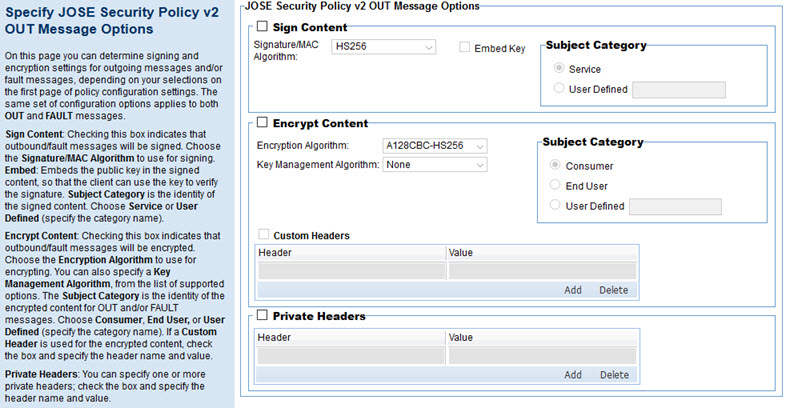
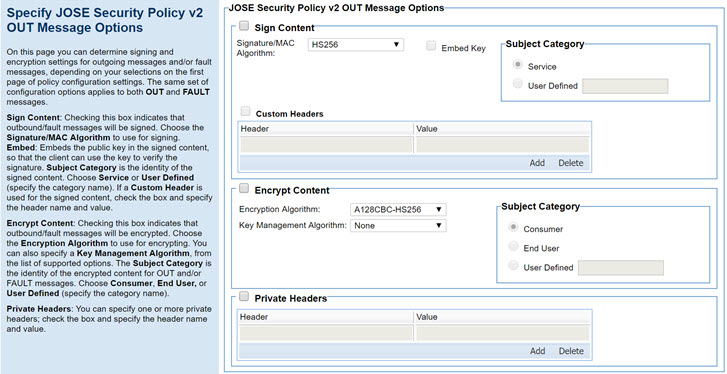
ATMO-24276: updates to JOSE Policy v2 doc for recent additional changes.

diff --git a/ag/policies/policy_op_jose_security_v2.htm b/ag/policies/policy_op_jose_security_v2.htm
@@ -140,7 +140,7 @@ nav-title: JOSE Security Policy v2
 	<li>The Content-Type header must be set to <strong>application/json</strong>.</li>
 	<li>If there is an Accept header, it is set to <strong>application/json</strong>.</li>
 	<li>The <strong>crit</strong> header is a string array of the <strong>b64</strong>, <strong>iat</strong>, and <strong>iss</strong> headers: &quot;b64&quot;, &quot;http://openbanking.org.uk/iat&quot;, &quot;http://openbanking.org.uk/iss&quot;.</li>
-	<li>The values for the <strong>iat</strong> and <strong>iss</strong> private headers comply with the Open Banking specification, as per the above.</li>
+	<li>The values for the <strong>iat</strong> and <strong>iss</strong> headers comply with the Open Banking specification, as per the above.</li>
 </ul>
 </dd>
 </dl>
@@ -219,6 +219,12 @@ nav-title: JOSE Security Policy v2
 </dd>
 
 
+
+
+<dt>Custom Headers</dt>
+<dd>If a custom header is used for the encrypted content, check the box and specify the header name and value. You can also add or delete existing custom headers as needed.</dd>
+
+
 </dl>
 <h5 id="jose_unenc_options_out_enc_content">Encrypt Content options for OUT or FAULT messages</h5>
 <p>For OUT messages, the option to reference the JWKS URL is not included, since there might be multiple <strong>kid</strong> (Key ID) header parameters specified at the JWKS URL. Instead, you can specify the <strong>kid</strong> to use, in the <strong>Custom Headers</strong> section.</p>
@@ -240,10 +246,6 @@ nav-title: JOSE Security Policy v2
 	<li><strong>User Defined</strong>: If you choose User Defined, specify a custom category name; for example, a platform identity.</li>
 </ul>
 </dd>
-
-
-<dt>Custom Headers</dt>
-<dd>If a custom header is used for the encrypted content, check the box and specify the header name and value. You can also add or delete existing custom headers as needed.</dd>
 </dl>
 
 <h5 id="jose_unenc_options_out_private_headers">Private Headers</h5>
